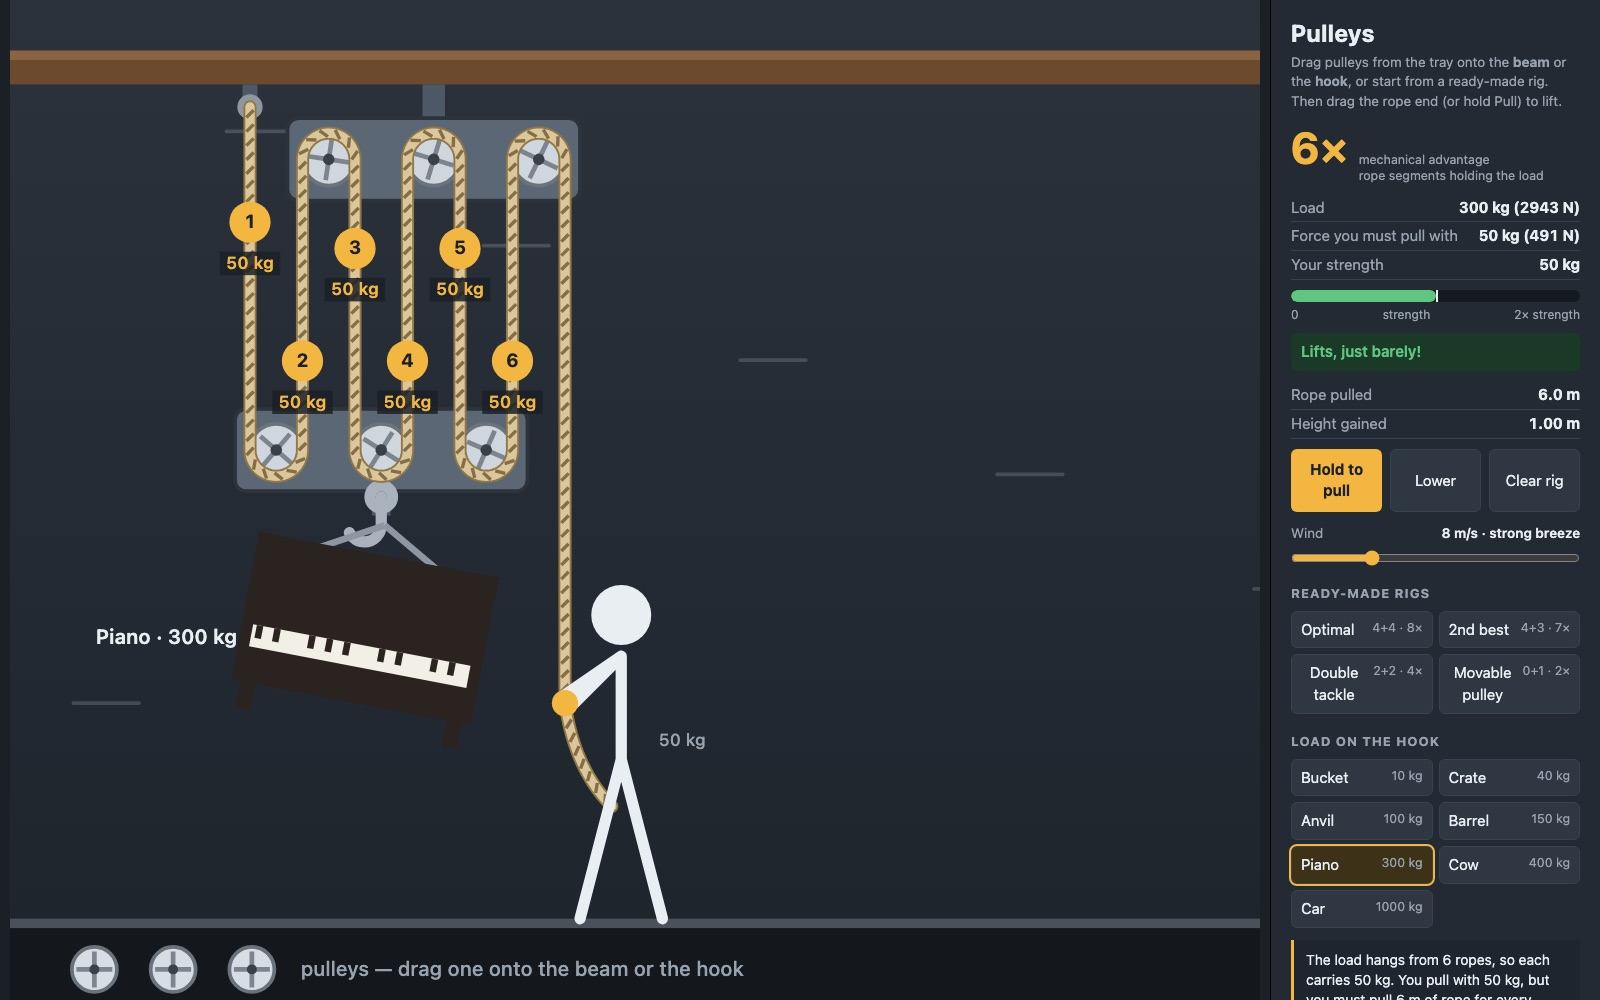
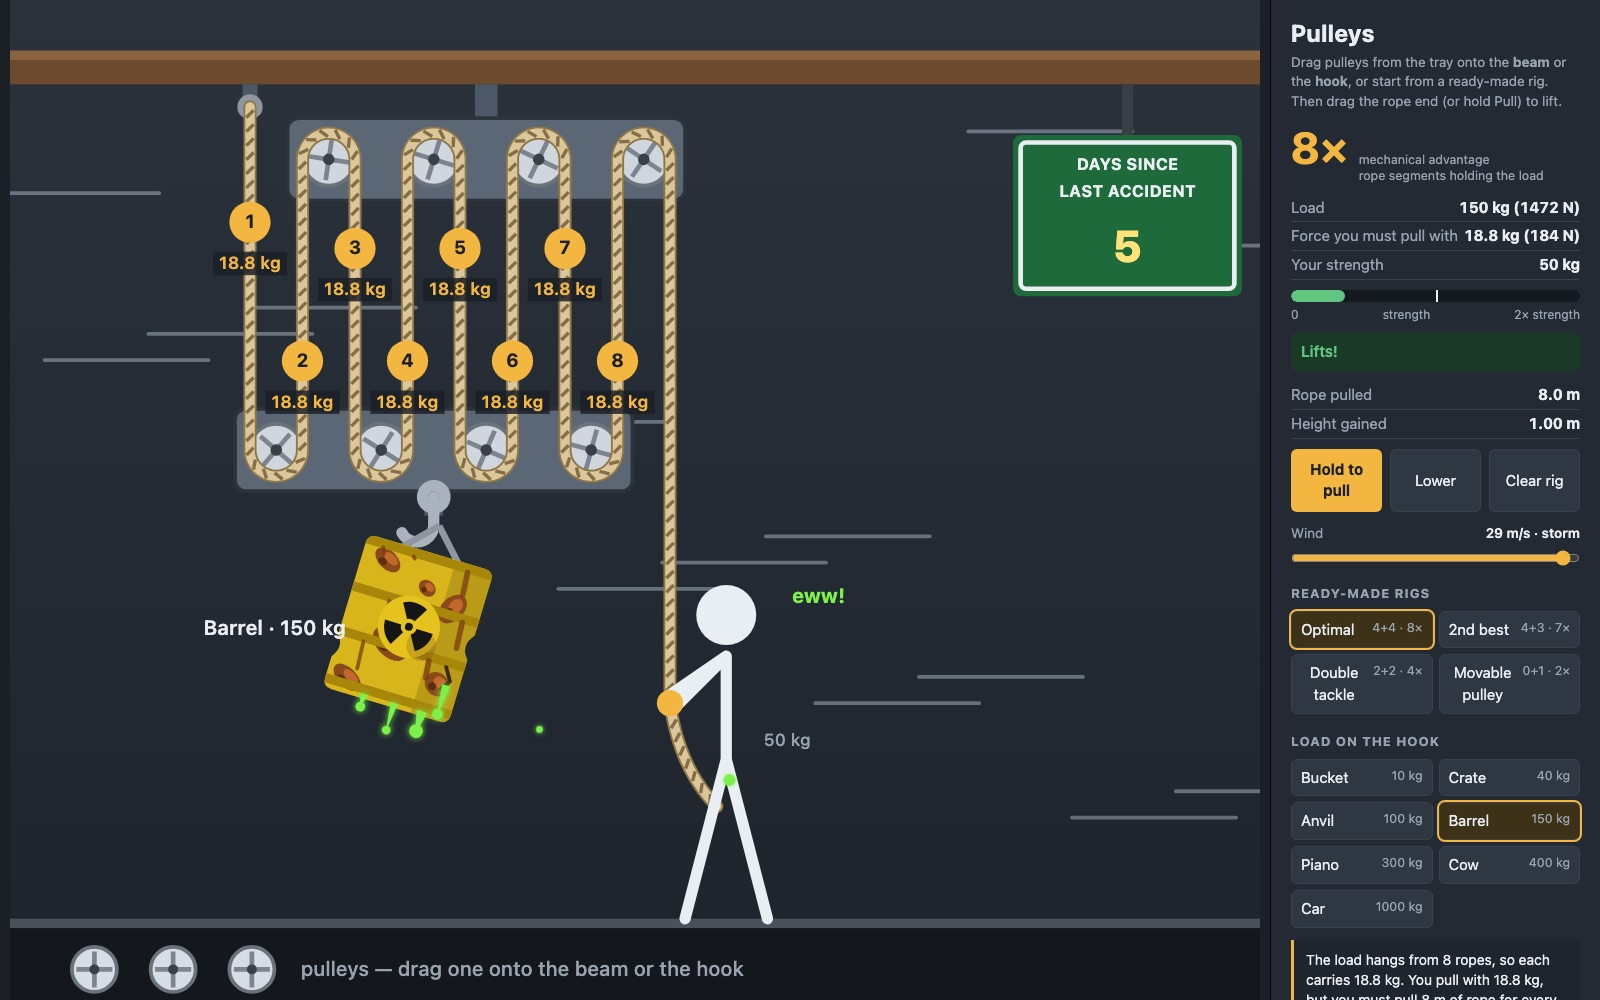
2d-pulleys: defaults are the Optimal rig, the barrel and a 29 m/s storm

diff --git a/2d-pulleys/index.html b/2d-pulleys/index.html
@@ -66,7 +66,7 @@
     <div class="row"><span>Rope pulled</span><b id="pulled">0.0 m</b></div>
     <div class="row"><span>Height gained</span><b id="height">0.0 m</b></div>
     <div class="btns"><button id="pull" class="primary">Hold to pull</button><button id="lower">Lower</button><button id="clear">Clear rig</button></div>
-    <label class="slider"><span>Wind <b id="windVal">8 m/s · strong breeze</b></span><input id="wind" type="range" min="0" max="30" step="1" value="8"></label>
+    <label class="slider"><span>Wind <b id="windVal">29 m/s · storm</b></span><input id="wind" type="range" min="0" max="30" step="1" value="29"></label>
     <h2>Ready-made rigs</h2>
     <div id="presets"></div>
     <h2>Load on the hook</h2>
@@ -592,7 +592,7 @@ const canvas = document.getElementById("c");
 const ctx = canvas.getContext("2d");
 const $ = (id) => document.getElementById(id);
 
-const state = { top: 4, bottom: 4, loadId: "crate", pulledM: 0, strain: 0, drag: null, holdPull: false, lowering: false, time: 0, wind: 8, swing: Pulley.swingInit(1.2) };
+const state = { top: 4, bottom: 4, loadId: "barrel", pulledM: 0, strain: 0, drag: null, holdPull: false, lowering: false, time: 0, wind: 29, swing: Pulley.swingInit(1.2) };
 const HANG_KICK = 1.2; // rad/s nudge when a load is hung, so it visibly sways
 const SIGN_HOURS_PER_S = 1; // the safety board runs at one simulated hour per real second
 state.accidentAt = -120 / SIGN_HOURS_PER_S; // the board opens at 5 days
@@ -607,7 +607,7 @@ let metrics = fitCanvasMetrics(CW, CH, 1, CW, CH);
 
 function current() {
   const rt = Pulley.route(state.top, state.bottom);
-  const load = Pulley.LOADS.find((l) => l.id === state.loadId) || Pulley.LOADS[1];
+  const load = Pulley.LOADS.find((l) => l.id === state.loadId) || Pulley.LOADS[3];
   const travel = Pulley.travelFor(rt);
   const fallen = state.swing.fallen;
   const s = Pulley.lift(rt, fallen ? 0 : load.kg, Pulley.STRENGTH_KG, state.pulledM, travel);

diff --git a/docs/superpowers/specs/2026-09-04-pulleys-design.md b/docs/superpowers/specs/2026-09-04-pulleys-design.md
@@ -48,7 +48,7 @@ Layout, left to right: the rig (beam across the top, fixed block under it, movin
 - **Installed pulleys.** Pointer-down on one lifts it out of its block; drop on the other block to move it, drop elsewhere to remove it. Removing while a load is raised lowers the load to the floor (state resets `pulledM = 0`).
 - **Rope drawing.** Anchor point, alternating vertical segments, arcs around sheaves, then the free end to the puller's hands. Supporting segments are numbered 1…N and labelled with their tension `W/N` kg. Sheaves rotate by the rope movement. Idle sheaves are grey with no rope.
 - **Puller.** A stick figure. For `pullDir = "down"` they stand on the floor to the right of the rig with the rope coming down from the last top sheave into their hands. For `pullDir = "up"` they stand on a balcony at the right edge near beam height, hands above their head, rope rising from the last bottom sheave (or the hook) to their hands. Dragging the hands along the pull direction increases `pulledM`; dragging the other way lowers. Arrow keys ↑/↓ and a hold-to-pull button also work. When the load is too heavy the figure leans and strains, the rope does not move, and the panel goes red. A "Lower" button pays the rope out at 0.8 m of load descent per second until the load is down; any pull input cancels the descent.
-- **Ready-made rigs.** Four panel buttons install a preset (best first): Optimal 4 + 4 (8×), 2nd best 4 + 3 (7×), Double tackle 2 + 2 (4×), Movable pulley 0 + 1 (2×). They call the same `setRig` as drag-and-drop, so the visitor can keep editing the rig afterwards; the button whose rig matches the current one is highlighted. The page opens with the Optimal rig installed (URL parameters `top`/`bottom` override this). Added 2026-09-04 after the first release.
+- **Ready-made rigs.** Four panel buttons install a preset (best first): Optimal 4 + 4 (8×), 2nd best 4 + 3 (7×), Double tackle 2 + 2 (4×), Movable pulley 0 + 1 (2×). They call the same `setRig` as drag-and-drop, so the visitor can keep editing the rig afterwards; the button whose rig matches the current one is highlighted. The page opens with the Optimal rig installed, the barrel on the hook and a 29 m/s storm (URL parameters `top`/`bottom`/`load`/`wind` override this; a stored wind setting overrides the default too). Added 2026-09-04 after the first release.
 - **Swinging load and wind.** (Added 2026-09-04.) The load hangs from the hook tip on its sling and behaves as a damped pendulum of length 0.2 m + half its height, damping 0.4 /s, nudged with 1.2 rad/s when hung. A wind slider (0–30 m/s, deterministic gusts of 10–100 %) applies dynamic pressure ½·1.2·v² times the load's face area (w·h) horizontally, so light, bulky loads swing far while the car barely moves. Past 0.9 rad (≈52°) the sling slips off: the load leaves with the pendulum's tangential velocity, falls under gravity and wind, lands on the floor and settles upright or on its side. While it is on the floor the hook is empty (load 0), the tension badges read 0, the status explains what happened, and clicking any load hangs one again. Wind streaks drift across the scene. URL parameters `wind` and `swing` (initial angle) exist for screenshots.
 - **Wind persistence.** The wind slider value is stored in `localStorage` (key `pulleys.wind`) and restored on the next load; a `wind` URL parameter overrides it.
 - **Sludge droplets.** (Added 2026-09-04.) While the barrel is the load, its leaks shed about 5 tiny glowing droplets per second from the drip points, following the swing or the fall. Each droplet falls at up to 3.5 m/s and is blown sideways toward the gusting wind speed with a 0.25 s relaxation, so a breeze carries drops onto the puller. A droplet within 8 cm of his limbs or 19 cm of his head sticks to him as a splat (in his frame, up to 80, fading over 40 s) and triggers a 1.2 s "eww!"; droplets reaching the floor leave a puddle that fades over 12 s.
